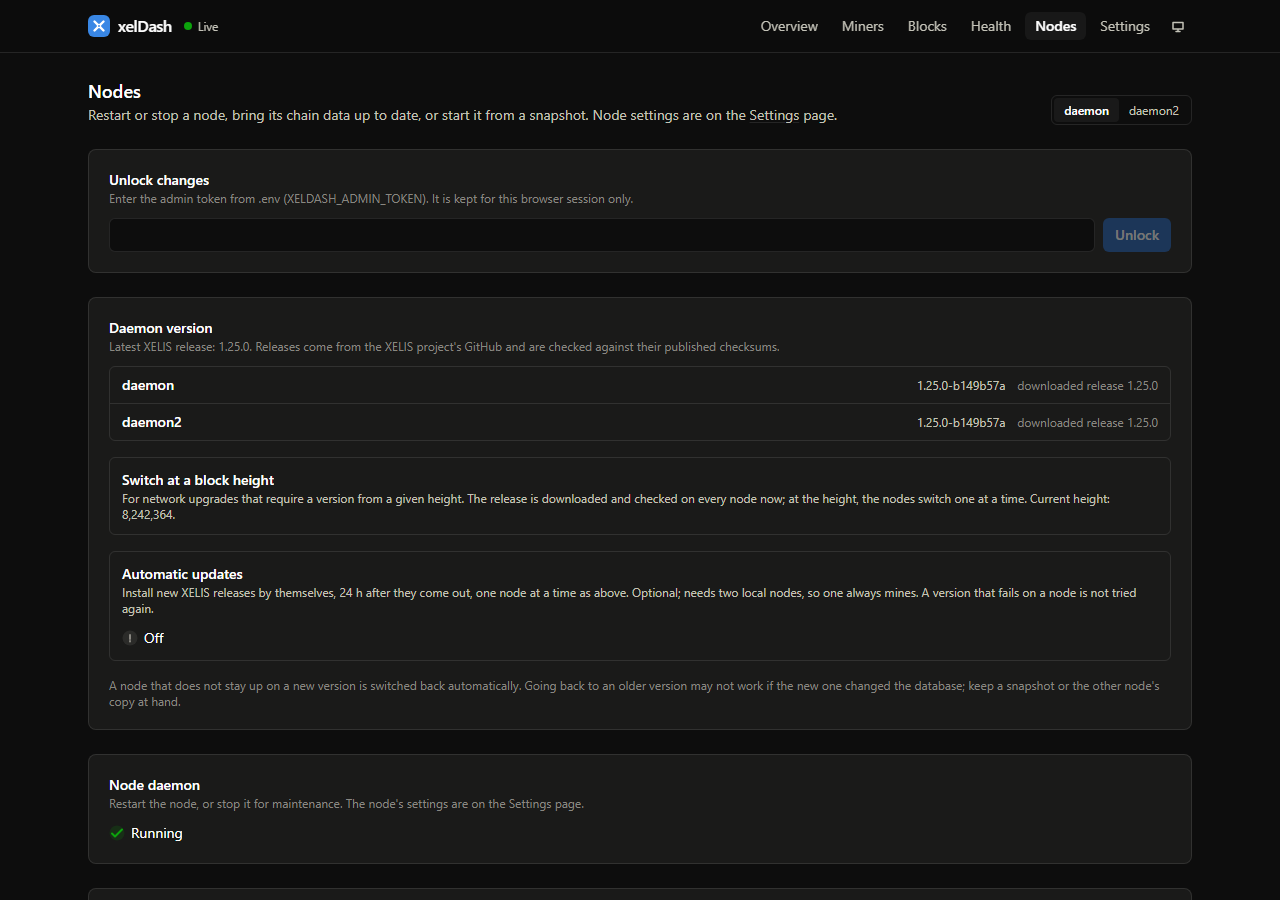
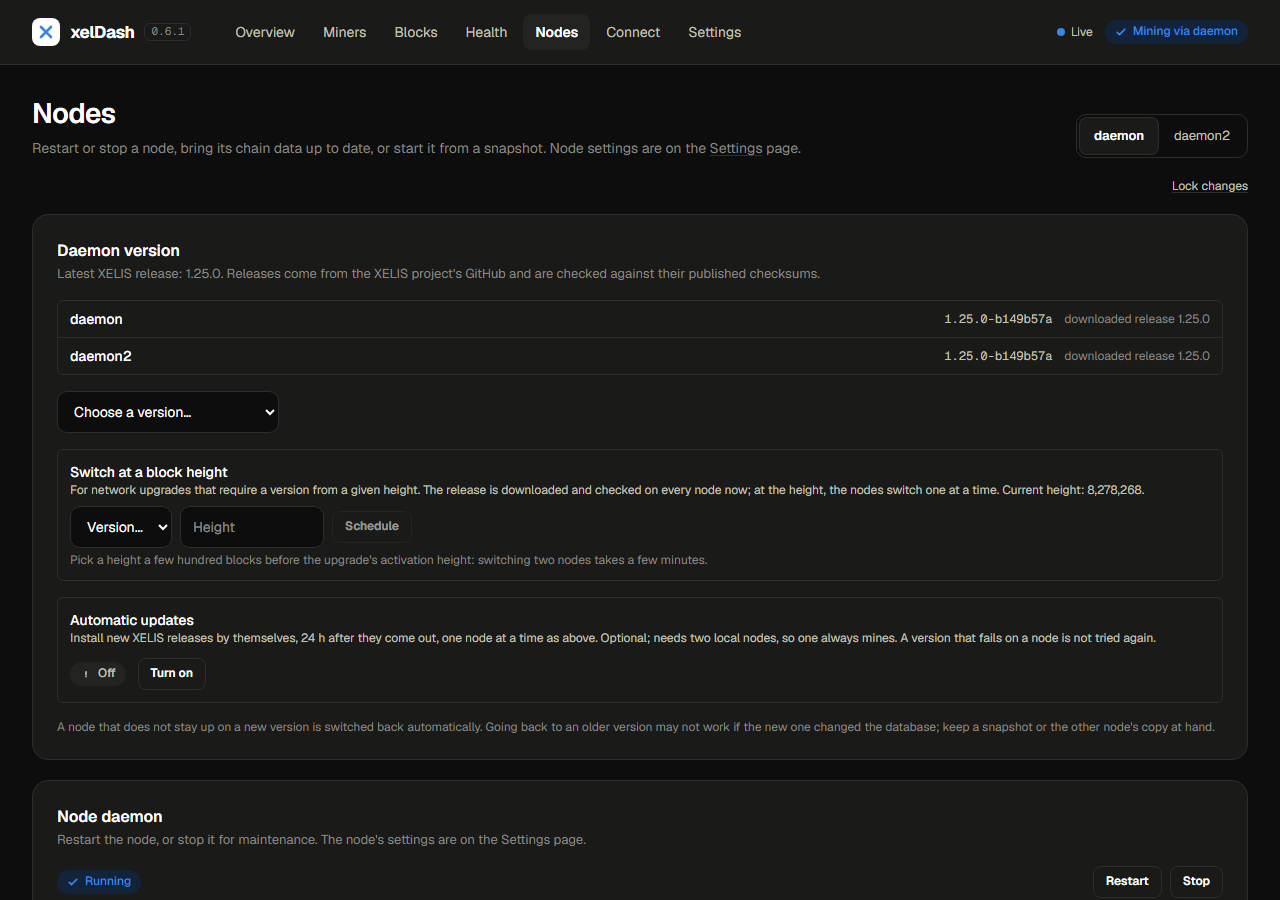
Docs and README screenshots for the 1.0 dashboard

diff --git a/README.md b/README.md
@@ -27,7 +27,7 @@
 <p align="center">
   <picture>
     <source media="(prefers-color-scheme: dark)" srcset="docs/images/overview-dark.png">
-    <img alt="The xelDash overview: hashrate, expected time to a block, effort, a hashrate chart and a shares chart" src="docs/images/overview-light.png" width="900">
+    <img alt="The xelDash overview: hashrate and its chart, when the next block is expected with the round's effort and luck, tiles for shares, earnings, the network and the node, and a shares chart" src="docs/images/overview-light.png" width="900">
   </picture>
 </p>
 
@@ -94,8 +94,9 @@ holds no funds, ever.
 
 ### Dashboard
 
-- **Live overview:** hashrate, expected time to a block, blocks found (and how many in the last 24 hours), network difficulty,
-  workers, shares and node health, updating as it happens.
+- **Live overview:** hashrate, when the next block is expected, the current round's effort, blocks found (and how many in the
+  last 24 hours), luck, what you earned in 30 days, your share of the network, shares, node health and recent blocks, updating
+  as it happens.
 - **Best share.** How close your best share came to a block (100% is one), this round, in the last day and ever, with a
   chart per bucket on the miner and worker pages.
 - **Effort and luck.** See how far the current round is from an average block, and how the
@@ -112,7 +113,9 @@ holds no funds, ever.
   in your browser. The notice stays until you close it, and on another tab the page title says "Block found".
 - **Blocks** with their final status, reward and the effort of the round that found them, a link
   to each in the official block explorer, the total rewards found so far, and a CSV download.
-- **Light, dark or system theme**, and a layout that works on a phone.
+- **Light, dark or system mode** with five colour themes (Classic, the original look, is the default) or a main colour of your
+  own, a layout that works on a phone and a tablet, and it can be installed as an app from the browser (nothing runs in the
+  background).
 
 <p align="center">
   <picture>
@@ -181,9 +184,9 @@ See [Security](docs/SECURITY.md) for what is protected and what is not.
     <td width="50%">
       <picture>
         <source media="(prefers-color-scheme: dark)" srcset="docs/images/blocks-dark.png">
-        <img alt="The Blocks page: total rewards found, and a chart of rewards found against rewards expected from the work done" src="docs/images/blocks-light.png">
+        <img alt="The Blocks page: rewards found, main-chain and side blocks, the effort of the last 12 blocks against the 100% line, and luck" src="docs/images/blocks-light.png">
       </picture>
-      <p align="center"><sub><b>Blocks:</b> rewards found, and how that compares with the work done</sub></p>
+      <p align="center"><sub><b>Blocks:</b> rewards found, the effort of each block, and luck</sub></p>
     </td>
     <td width="50%">
       <picture>
@@ -197,7 +200,7 @@ See [Security](docs/SECURITY.md) for what is protected and what is not.
     <td width="50%">
       <picture>
         <source media="(prefers-color-scheme: dark)" srcset="docs/images/nodes-dark.png">
-        <img alt="The Nodes page: daemon versions, scheduled switches, restart and copy controls" src="docs/images/nodes-light.png">
+        <img alt="The Nodes page: daemon versions, a switch at a block height, automatic updates, and restart and stop" src="docs/images/nodes-light.png">
       </picture>
       <p align="center"><sub><b>Nodes:</b> versions, upgrades, restart, copy, snapshots</sub></p>
     </td>

diff --git a/CHANGELOG.md b/CHANGELOG.md
@@ -16,12 +16,32 @@ breaking changes; they are marked **Breaking**.
 - `XELDASH_PUBLIC_HOST` is now `XELDASH_CONNECT_HOST`: the address miners are told to connect to (your home-network address, or a
   public server's domain), which had nothing to do with public mode. The old name keeps working through 1.x, and the launcher renames
   it in `.env` the next time it runs, keeping its value.
+- A miner that logs in with only a worker name (`rig1`) is told that the user name starts with the address
+  (`address.worker`), and the Connection problems card says so too. A login with no address and no default one says to set a
+  default payout address in Settings, not an environment variable.
+- The Nodes page says when the official snapshot is missing from the XELIS team's server (404), not only that it cannot be
+  reached.
 - The webhook alert's fields are written down for each kind of alert (Operations, "Webhook alerts") and checked by a test, so they
   cannot change by accident; from 1.0.0 none of them is renamed or removed within 1.x. A failed chain copy now says so in the
   webhook too (`node_update` with `outcome: "copy_failed"`).
 
 ### Dashboard
 
+- A new look, with nothing taken away: the pages are rebuilt as cards, with a top bar showing the mining status and, on phones
+  and tablets (below 960 px wide), tabs along the bottom. The Overview leads with hashrate and its chart beside when the next
+  block is expected, the round's effort and luck, then what you earned in 30 days and your share of the network. Blocks adds a
+  chart of each block's effort (hover or the arrow keys for each block, or a table) and the orphan rate.
+- Five colour themes, each with a light and a dark version: Classic (the colours from before, and the default), Ember, Glacier,
+  Amethyst and Terminal; or a main colour of your own, with light and dark versions worked out so it stays readable. Per
+  browser, under Settings, Appearance.
+- A Connect page ("Mine here" on a public server) with your address in every setting and command, and your workers listed as
+  they connect. It says when a pool address or a whole `address.worker` was pasted as the address, and that the dashboard's
+  port is not the mining port.
+- Settings is grouped into Appearance, Mining, and Notifications and display, with switches. A public server's visitors get a
+  Settings page too, with Appearance, animations and the block sound only.
+- The dashboard can be installed as an app from the browser ("Install app", "Add to Home Screen"), with its own icon. Nothing
+  runs in the background.
+- A link to support xelDash at the foot of every page.
 - The numbers on the tiles count up when they first show, and move to their new value when a refresh changes it, in your
   browser's number format; screen readers get the final value. The charts' animations take about a second instead of half that.
   Both are skipped when your system asks for less motion, and Settings ("Animate charts and numbers") turns them off.

diff --git a/docs/ARCHITECTURE.md b/docs/ARCHITECTURE.md
@@ -203,10 +203,13 @@ calls to the node in all (`node-budget.js`). The limits and their defaults are i
 ## 8. API and dashboard
 
 - Pages: Overview (with a setup banner until a miner has connected), Get started (`#/setup`), Miners (with Miner and Worker pages), Blocks, Health (with connection problems), Nodes (stop and start,
-  versions and upgrades, copies and snapshots) and Settings (display, the official node fallback,
-  alerts, backups, each node's daemon settings). Light, dark or system theme, an optional XEL price, the block sound (the
-  built-in chime or the visitor's own file, kept in IndexedDB and never uploaded) and chart animations, all per browser; phone-sized layouts; live updates over `/api/v1/live` with polling as the
-  fallback.
+  versions and upgrades, copies and snapshots), Connect (`#/connect`, "Mine here" for a public server's visitors) and Settings
+  (Appearance; Mining: the payout address, the official node fallback, automatic updates; Notifications and display; then alerts,
+  backups and each node's daemon settings; a public server's visitors get Appearance only). Light, dark or system mode, five colour
+  themes (`web/src/index.css`, Classic by default) or an own main colour (`web/src/accent.js`), an optional XEL price, the block
+  sound (the built-in chime or the visitor's own file, kept in IndexedDB and never uploaded) and animations, all per browser and
+  applied before first paint by `web/public/theme-init.js`; tabs along the bottom below 960 px; a web app manifest and icons, with
+  no service worker; live updates over `/api/v1/live` with polling as the fallback.
 - REST endpoints (all `GET`; `address` must be a valid `xel:`/`xet:` address; `worker` needs
   `address`): `/api/v1/overview`, `/api/v1/status`, `/api/v1/hashrate`, `/api/v1/miners`,
   `/api/v1/miners/{address}`, `/api/v1/miners/{address}/workers/{name}`, `/api/v1/blocks`,

diff --git a/docs/OPERATIONS.md b/docs/OPERATIONS.md
@@ -320,8 +320,9 @@ With `XELDASH_PUBLIC_MODE=true`:
   and Health pages leave the list out); the operator's dashboard has them as usual.
 - **Every miner must use its own address.** A login without an address is refused with a message saying so; the default address
   (`XELIS_DEFAULT_ADDRESS` or the one chosen on the setup page) is never used, so a misconfigured rig cannot mine for the server.
-- **No node administration from the public site.** The public dashboard has no Nodes, Settings or setup pages, and its web server
-  answers 404 for node administration. Visitors get a **Mine here** page with the settings for each miner instead.
+- **No node administration from the public site.** The public dashboard has no Nodes or setup pages, and its web server answers
+  404 for node administration. Visitors get a **Mine here** page with the settings for each miner instead, and a Settings page
+  with only how the dashboard looks and sounds for them (mode, colour theme, animations, block sound), kept in their browser.
 - **Warnings, not refusals.** At startup the API logs a warning if `XELDASH_ALLOWED_NETWORKS` is still `private`, if
   `XELDASH_PUBLIC_DOMAIN` is empty (no built-in HTTPS), or if a default address is set (it is ignored). It starts anyway, for
   setups with their own reverse proxy.

diff --git a/docs/MINERS.md b/docs/MINERS.md
@@ -1,8 +1,10 @@
 # Connecting miners
 
-The easiest way: open the dashboard's **Get started** page (`#/setup`). It shows your server's real
-address and port, your wallet address, and a ready-made command for each miner, each with a copy
-button.
+The easiest way: open the dashboard's **Connect** page (`#/connect`; **Mine here** for a public server's visitors). It shows
+your server's real address and port, your wallet address, and a ready-made command for each miner, each with a copy button,
+then lists your workers as they connect. The **Get started** page (`#/setup`) shows the same settings during a first install.
+
+Point miners at the Stratum port it shows (3333 by default), not the dashboard's port: the dashboard does not take miners.
 
 By hand: use your own XELIS address as the user name. The worker name is optional but shows up on
 the dashboard, so name each rig. Miners that have a single "user" or "wallet" field can send
